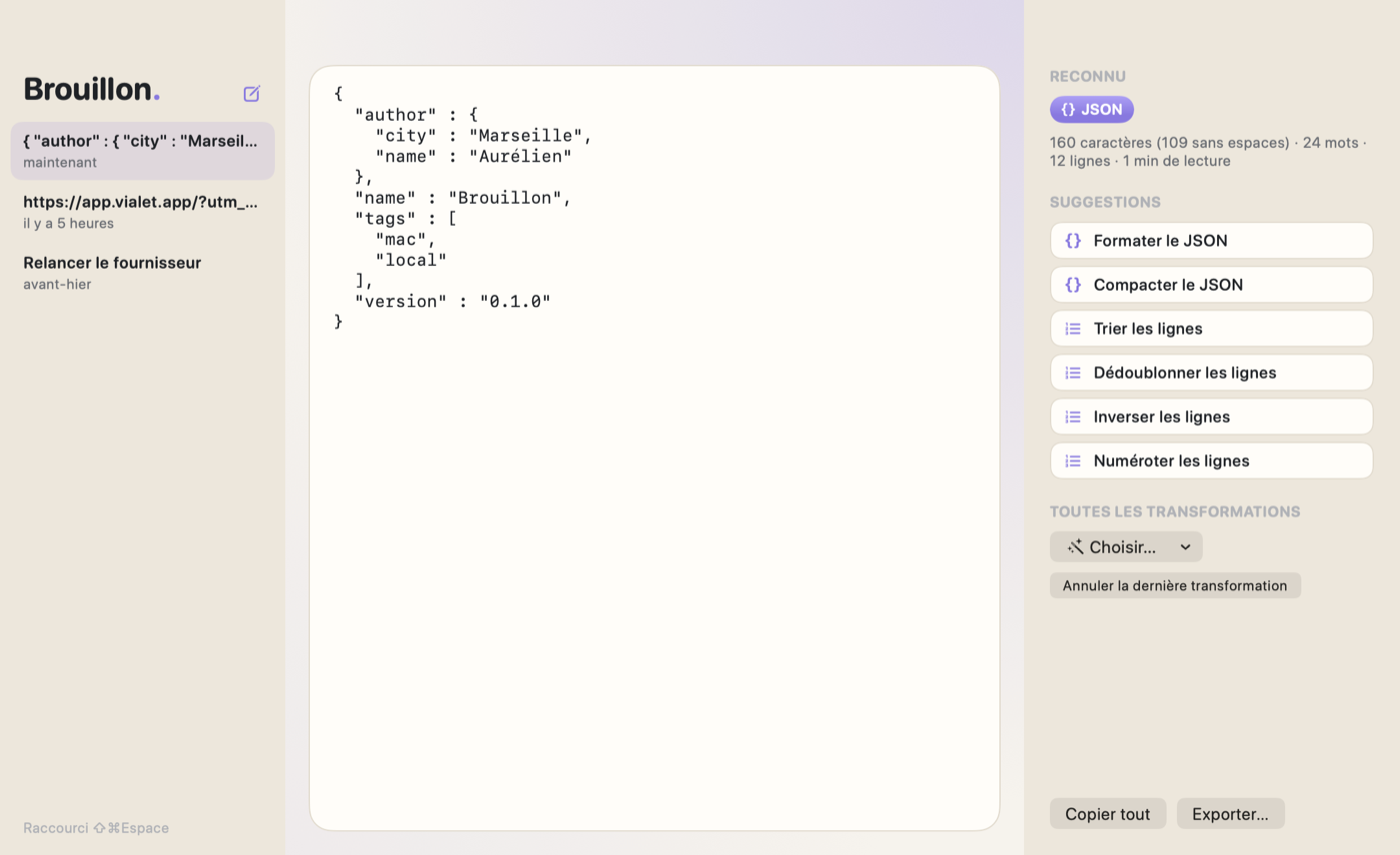
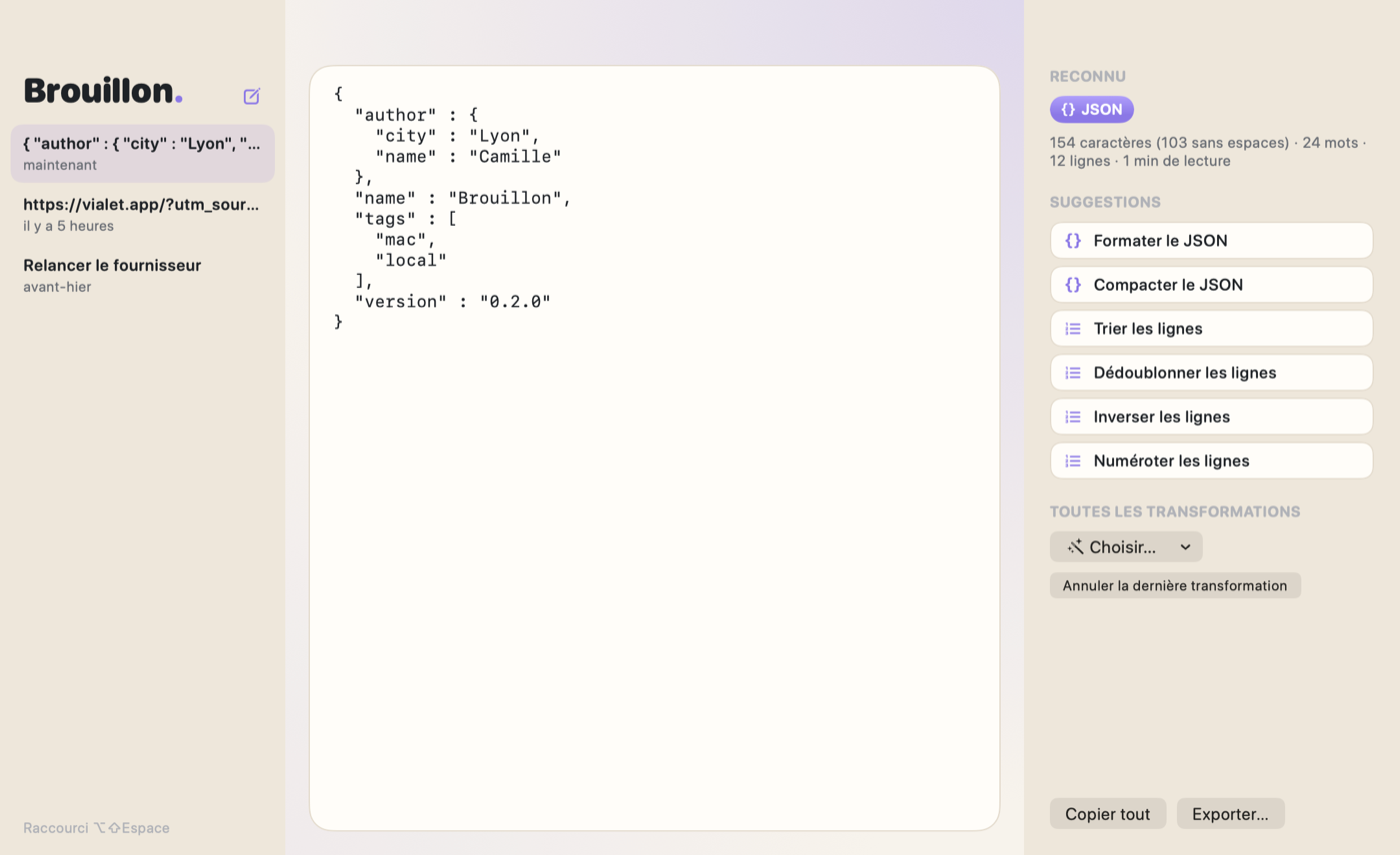
Brouillon 0.2.0 : VERSION, notes de version, README (A propos, kit 0.2, scripts) ; captures neutres de la nouvelle interface et nouvelle icone dans docs/screenshots

diff --git a/README.md b/README.md
@@ -64,6 +64,7 @@ Le seul échange réseau de Brouillon est cette lecture de la version publiée. 
 - L'icône de la barre des menus crée un brouillon, colle dans un nouveau brouillon, ou rouvre les derniers.
 - Le lien `brouillon://new?text=…` crée un brouillon prérempli, pour un script ou un lanceur.
 - Fermer la fenêtre ne quitte pas l'app : le raccourci et l'icône de la barre des menus restent actifs. **⌘Q** quitte vraiment.
+- **Brouillon › À propos de Brouillon** affiche la version, la licence et les liens vers le site et le code source.
 
 | Famille | Transformations |
 |---|---|
@@ -98,12 +99,12 @@ make release   # fabrique build/Brouillon-X.Y.Z.dmg et son empreinte
 | Dossier | Contenu |
 |---|---|
 | `Packages/BrouillonCore` | Noyau sans interface : transformations, statistiques, suggestions, brouillons SQLite ([GRDB](https://github.com/groue/GRDB.swift)) |
-| `Brouillon` | L'application SwiftUI ; `App/Brand.swift` porte son identité |
-| `scripts` | Assemblage de l'app, du DMG et de l'icône |
+| `Brouillon` | L'application SwiftUI ; `App/Brand.swift` porte son identité (nom, teintes, glyphe) |
+| `scripts` | Assemblage de l'app et du DMG habillé (`scripts/dmg`) ; l'icône vient de la plaque (`make icon`) |
 | `docs` | [Publier une version](docs/publier-une-version.md), [tests](docs/tests.md), notes de version |
 
-Le socle commun (mises à jour, thème, raccourci global, panneau flottant) vient de
-[VialetKit](https://github.com/avialet/vialetkit). Publier une version ne demande que de
+Le socle commun (identité, police des titres, thème, Réglages, À propos, mises à jour, raccourci
+global) vient de [VialetKit](https://github.com/avialet/vialetkit) 0.2. Publier une version ne demande que de
 modifier `VERSION` puis de pousser un tag `vX.Y.Z` : la CI construit et publie le DMG, et
 les utilisateurs reçoivent la mise à jour dans l'app.
 

diff --git a/docs/notes/v0.2.0.md b/docs/notes/v0.2.0.md
@@ -1,0 +1,9 @@
+Brouillon change d'allure : nouvelle identité, mêmes écrans.
+
+- Nouvelle identité « affiche couleur » : plaque lavande et trait de crayon, dans l'icône, la barre des menus et le panneau À propos.
+- Titres en Bricolage Grotesque, embarquée dans l'app.
+- Teintes de l'affiche : halo de l'éditeur, brouillon sélectionné, pastille du contenu reconnu ; en sombre, un fond teinté de nuit.
+- Panneau À propos : version, licence, liens vers le site et le code source.
+- Nouvelle icône, et un DMG habillé : fond, icône de volume, glisser vers Applications.
+- « Rétablir » dans les Réglages remet bien ⌥⇧Espace, le raccourci de Brouillon (il remettait ⇧⌘Espace).
+- Réglages sur l'écran commun des apps vialet.app, en-têtes de colonne et pied de raccourci harmonisés.
